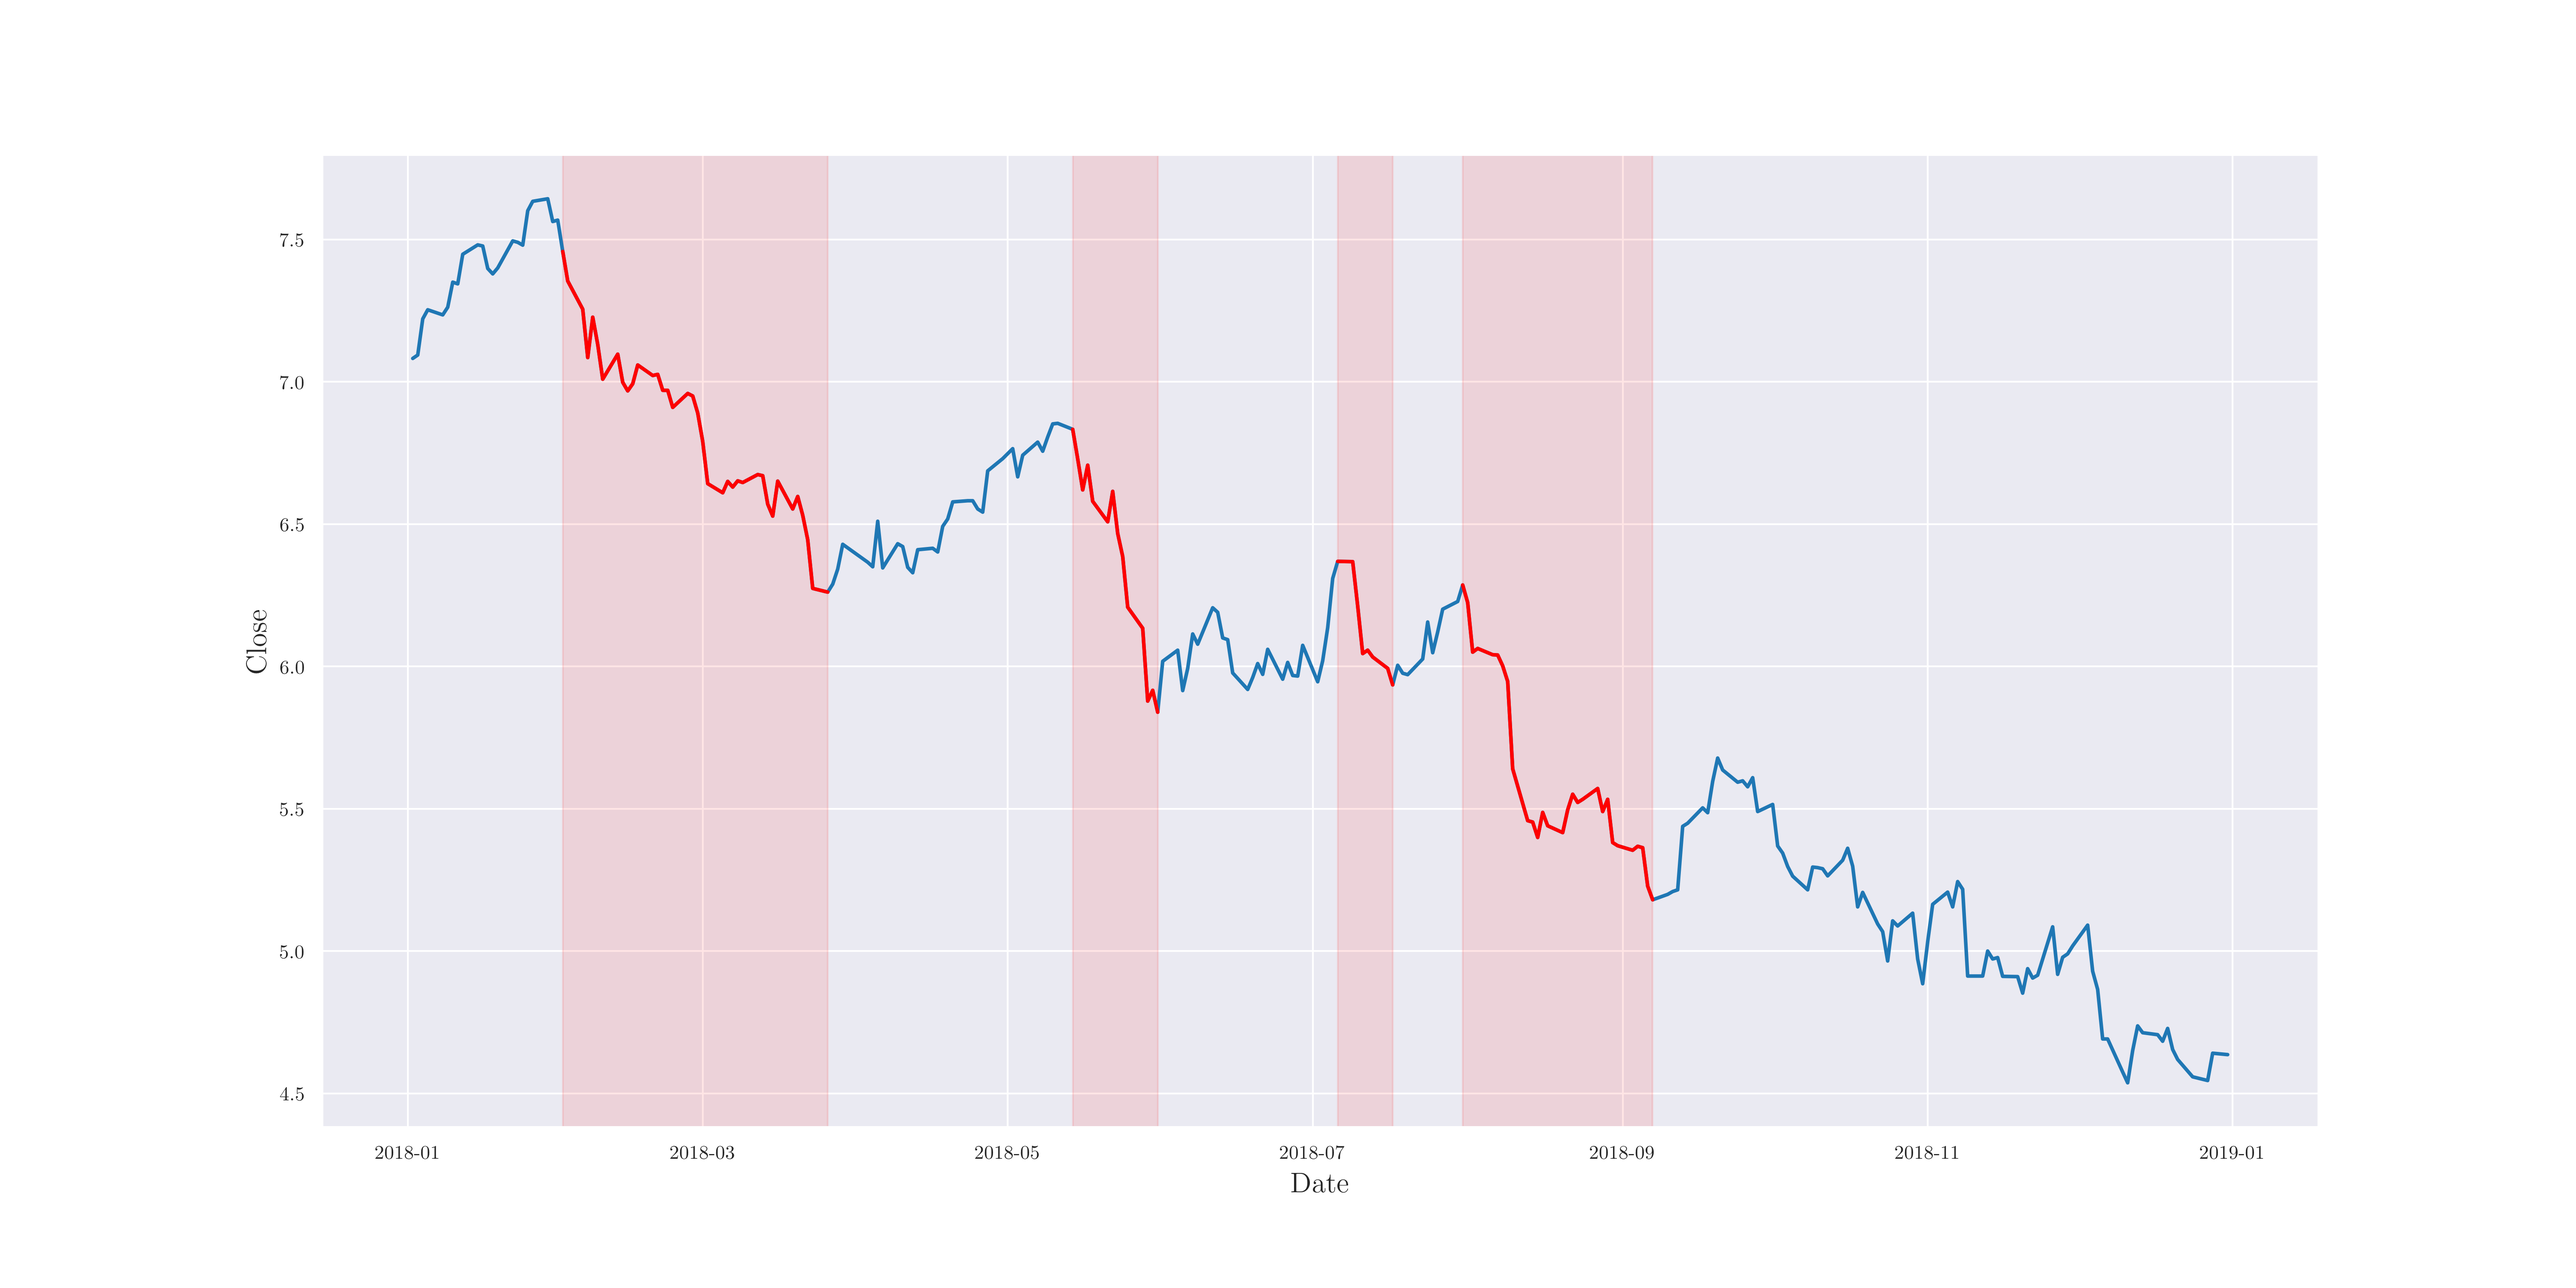
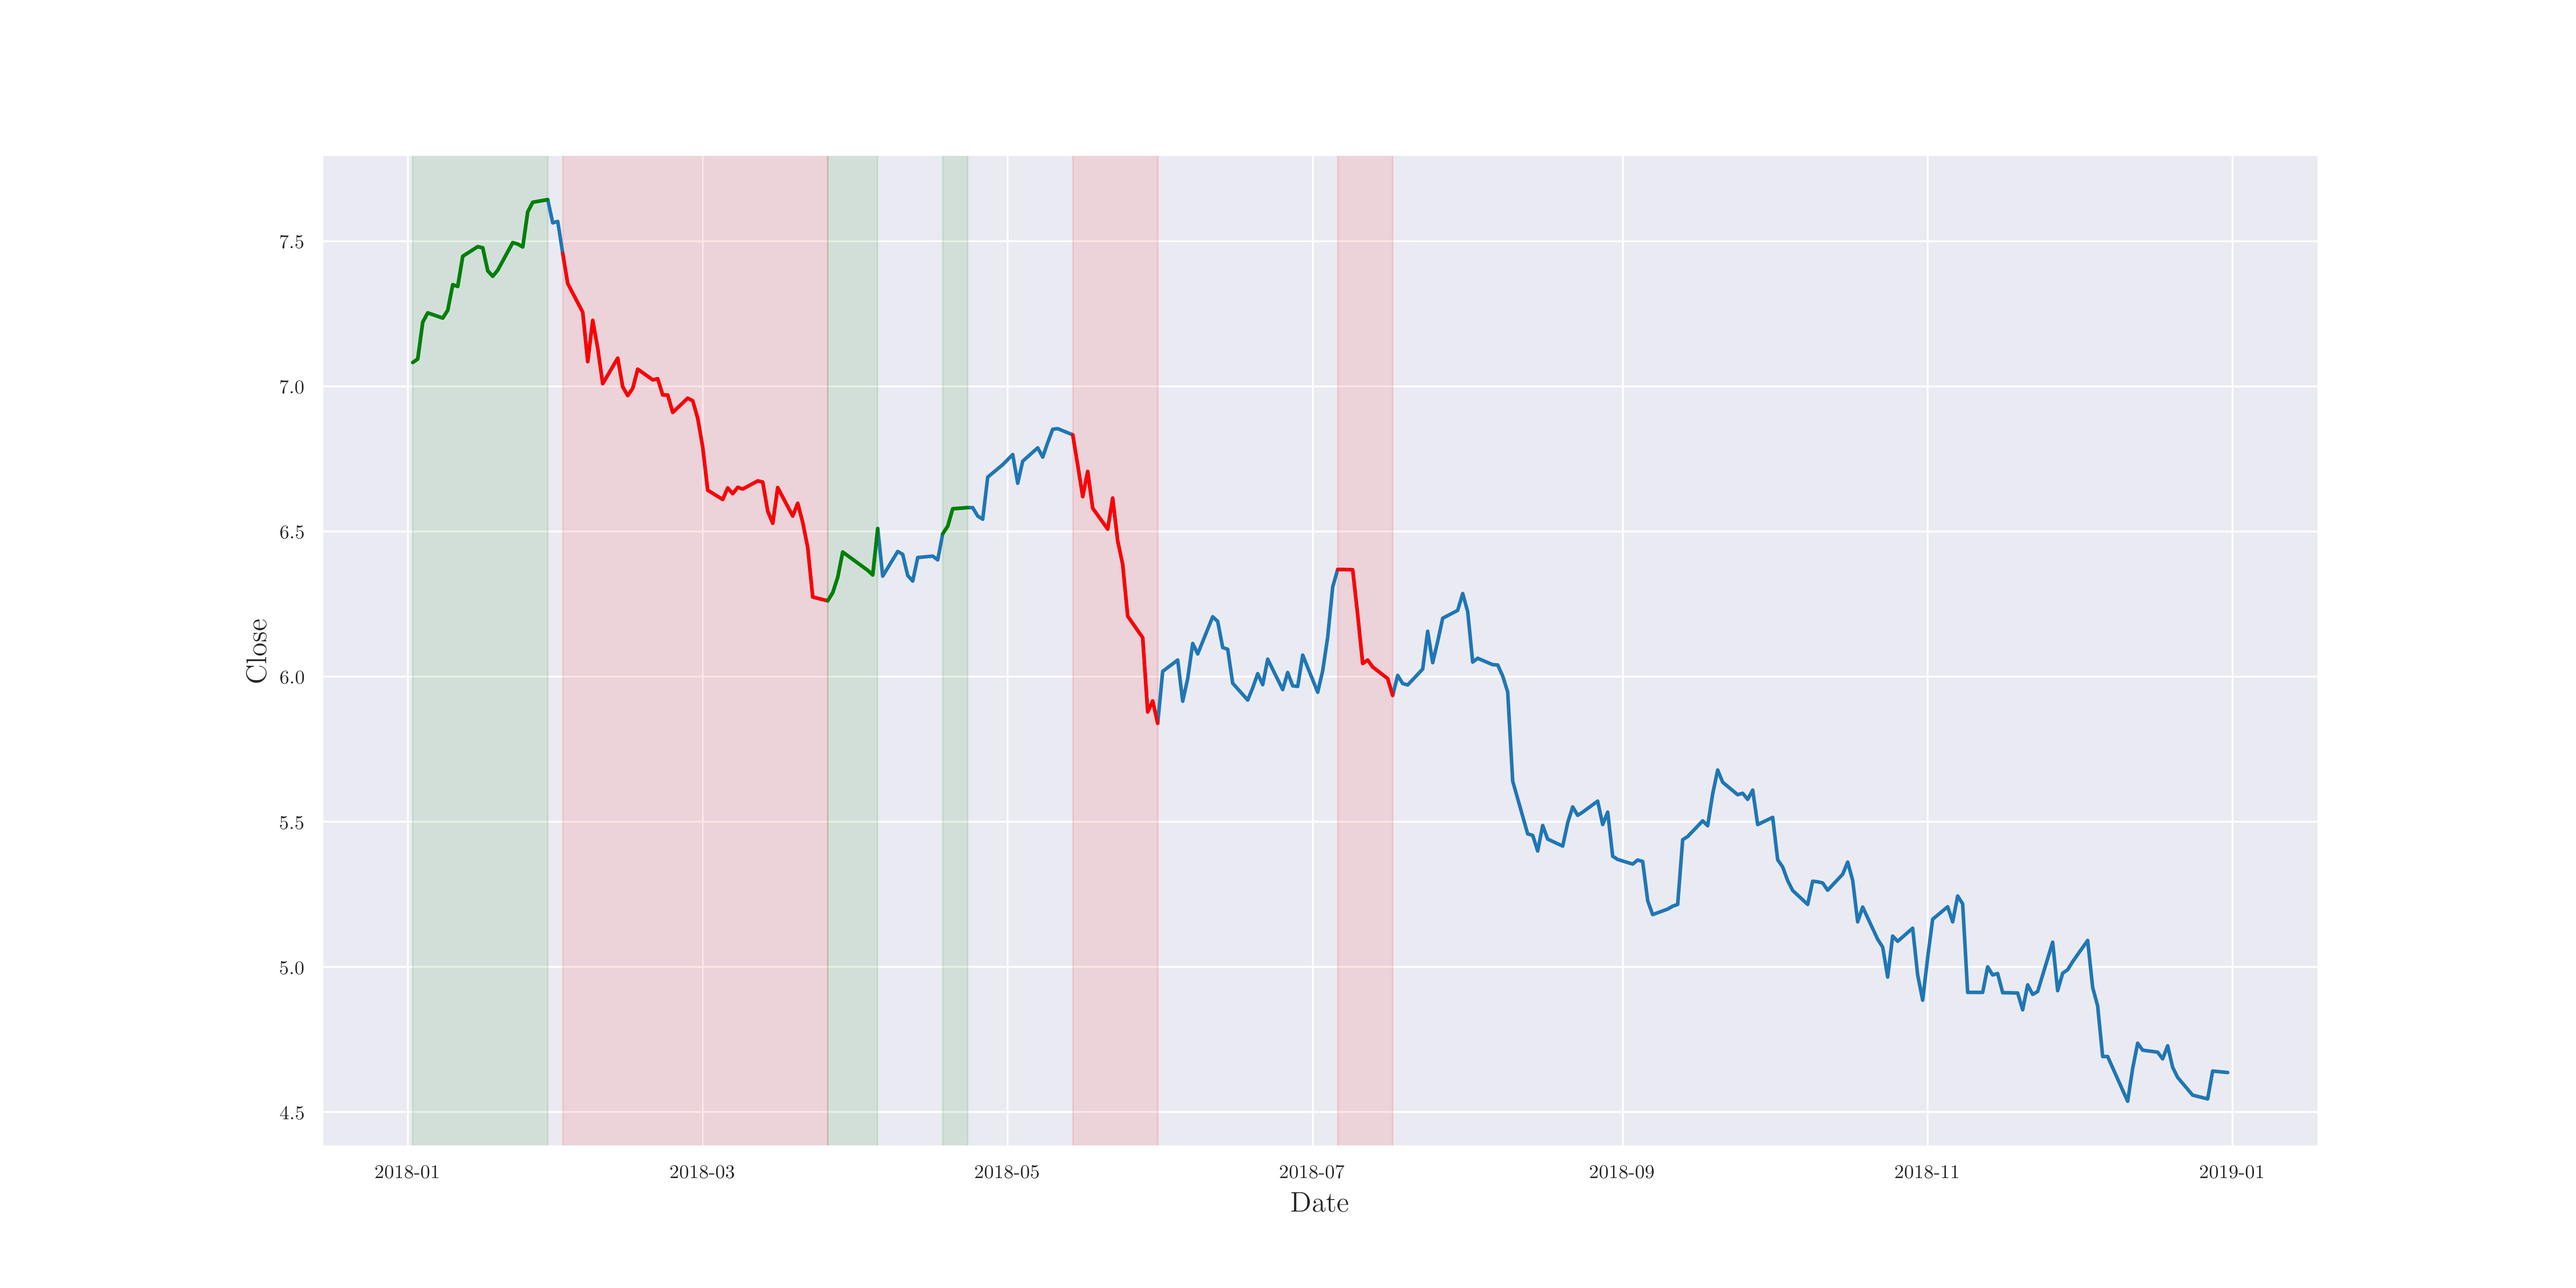
added up trends & 0.2 minor fix/setup
- add both up and down trends as on 0.1 version just down trends were considered
- sample code updated (usage)
- created sample trendet gist (https://gist.github.com/alvarob96/98f94dcfec59f78a16ad2edbf464ce75)
- minor changes on docs

diff --git a/trendet/__init__.py b/trendet/__init__.py
@@ -4,9 +4,11 @@
 # See LICENSE for details.
 
 __author__ = 'Alvaro Bartolome @ alvarob96 on GitHub'
-__version__ = '0.1'
+__version__ = '0.2'
 
 from investpy import get_historical_data
+
+import numpy as np
 
 from statistics import mean
 import datetime
@@ -91,45 +93,62 @@ def identify_trends(equity, from_date, to_date, window_size=5, trend_limit=3, la
     except:
         raise RuntimeError('investpy function call failed!')
 
-    limit = None
-    values = list()
+    objs = list()
 
-    trends = list()
+    up_trend = {
+        'name': 'Up Trend',
+        'element': np.negative(df['Close'])
+    }
 
-    for index, value in enumerate(df['Close'], 0):
-        if limit and limit > value:
-            values.append(value)
-            limit = mean(values)
-        elif limit and limit < value:
-            if len(values) > window_size:
-                min_value = min(values)
+    objs.append(up_trend)
 
-                for counter, item in enumerate(values, 0):
-                    if item == min_value:
+    down_trend = {
+        'name': 'Down Trend',
+        'element': df['Close']
+    }
+
+    objs.append(down_trend)
+
+    for obj in objs:
+        limit = None
+        values = list()
+
+        trends = list()
+
+        for index, value in enumerate(obj['element'], 0):
+            if limit and limit > value:
+                values.append(value)
+                limit = mean(values)
+            elif limit and limit < value:
+                if len(values) > window_size:
+                    min_value = min(values)
+
+                    for counter, item in enumerate(values, 0):
+                        if item == min_value:
+                            break
+
+                    to_trend = from_trend + counter
+
+                    trend = {
+                        'from': df.index.tolist()[from_trend],
+                        'to': df.index.tolist()[to_trend],
+                    }
+
+                    trends.append(trend)
+
+                    if len(trends) >= trend_limit:
                         break
 
-                to_trend = from_trend + counter
+                limit = None
+                values = list()
+            else:
+                from_trend = index
 
-                obj = {
-                    'from': df.index.tolist()[from_trend],
-                    'to': df.index.tolist()[to_trend],
-                }
+                values.append(value)
+                limit = mean(values)
 
-                trends.append(obj)
-
-                if len(trends) >= trend_limit:
-                    break
-
-            limit = None
-            values = list()
-        else:
-            from_trend = index
-
-            values.append(value)
-            limit = mean(values)
-
-    for trend, label in zip(trends, labels):
-        for index, row in df[trend['from']:trend['to']].iterrows():
-            df.loc[index, 'Trend'] = label
+        for trend, label in zip(trends, labels):
+            for index, row in df[trend['from']:trend['to']].iterrows():
+                df.loc[index, obj['name']] = label
 
     return df

diff --git a/setup.py b/setup.py
@@ -11,10 +11,10 @@ def readme():
 
 setup(
     name='trendet',
-    version='0.1',
+    version='0.2',
     packages=find_packages(),
     url='https://github.com/alvarob96/trendet',
-    download_url='https://github.com/alvarob96/trendet/archive/0.1.tar.gz',
+    download_url='https://github.com/alvarob96/trendet/archive/0.2.tar.gz',
     license='MIT License',
     author='Alvaro Bartolome',
     author_email='alvarob96@usal.es',

diff --git a/docs/conf.py b/docs/conf.py
@@ -22,7 +22,7 @@ copyright = '2019, Alvaro Bartolome del Canto'
 author = 'Alvaro Bartolome del Canto'
 
 # The full version, including alpha/beta/rc tags
-release = '0.1'
+release = '0.2'
 
 
 # -- General configuration ---------------------------------------------------

diff --git a/README.md b/README.md
@@ -18,7 +18,7 @@
 **trendet** is a Python package to detect trends on the market so to analyze its behaviour. So on, this package
 has been created to support [investpy](https://github.com/alvarob96/investpy) features when it comes to data retrieval
 from different financial products such as stocks/equities, funds or ETFs; and it is intended to be combined with it, 
-but also with every `pandas.DataFrame`, formatted as OHLC. 
+but also with every `pandas.DataFrame`, formatted as OHLC.
 
 ## Installation
 
@@ -28,17 +28,27 @@ In order to get this package working you will need to install it using pip by ty
 
 Or just install the current release or a specific release version such as:
 
-``$ python -m pip install trendet==0.1``
+``$ python -m pip install trendet==0.2``
 
 ## Usage
+
+As **trendet** is intended to be combined with **investpy**, the main functionality is to
+detect trends on stock time series data so to analyse the market and which behaviour does it have
+in certain date ranges.
+
+In the example presented below, the ``identify_trends`` function will be used to detect 3 bearish/bullish trends
+with a time window above 5 days, which implies that every bearish (decreasing) trend with a longer
+duration than 5 days will be identified and so on added to a ``pandas.DataFrame`` which already contains
+OHLC values, in new columns called **Up Trend** and **Down Trend** which will be labeled as specified, with letters 
+from A to Z by default.
 
 ````python
 import trendet
 
 import matplotlib.pyplot as plt
 import seaborn as sns
-sns.set(style='darkgrid')
 
+sns.set(style='darkgrid')
 
 df = trendet.identify_trends(equity='bbva',
                              from_date='01/01/2018',
@@ -54,10 +64,27 @@ with plt.style.context('paper'):
 
     ax = sns.lineplot(x=df['Date'], y=df['Close'])
 
+    values = list()
+
+    value = {
+        'trend': 'Up Trend',
+        'color': 'green',
+    }
+
+    values.append(value)
+
+    value = {
+        'trend': 'Down Trend',
+        'color': 'red',
+    }
+
+    values.append(value)
+
     for label in ['A', 'B', 'C']:
-        sns.lineplot(x=df[df['Trend'] == label]['Date'], y=df[df['Trend'] == label]['Close'], color='red')
-        ax.axvspan(df[df['Trend'] == label]['Date'].iloc[0], df[df['Trend'] == label]['Date'].iloc[-1], alpha=0.1, color='red')
-    
+        for value in values:
+            sns.lineplot(x=df[df[value['trend']] == label]['Date'], y=df[df[value['trend']] == label]['Close'], color=value['color'])
+            ax.axvspan(df[df[value['trend']] == label]['Date'].iloc[0], df[df[value['trend']] == label]['Date'].iloc[-1], alpha=0.2, color=value['color'])
+
     plt.show()
 ````
 

diff --git a/docs/usage.rst b/docs/usage.rst
@@ -5,10 +5,11 @@ As **trendet** is intended to be combined with **investpy**, the main functional
 detect trends on stock time series data so to analyse the market and which behaviour does it have
 in certain date ranges.
 
-In the example presented below, the ``identify_trends`` function will be used to detect 3 bearish trends
+In the example presented below, the ``identify_trends`` function will be used to detect 3 bearish/bullish trends
 with a time window above 5 days, which implies that every bearish (decreasing) trend with a longer
 duration than 5 days will be identified and so on added to a ``pandas.DataFrame`` which already contains
-OHLC values, in a new column called `Trend` which will be labeled.
+OHLC values, in new columns called `Up Trend` and `Down Trend` which will be labeled as specified, with letters from A
+to Z by default.
 
 .. code-block:: python
 
@@ -16,8 +17,8 @@ OHLC values, in a new column called `Trend` which will be labeled.
 
     import matplotlib.pyplot as plt
     import seaborn as sns
-    sns.set(style='darkgrid')
 
+    sns.set(style='darkgrid')
 
     df = trendet.identify_trends(equity='bbva',
                                  from_date='01/01/2018',
@@ -33,9 +34,26 @@ OHLC values, in a new column called `Trend` which will be labeled.
 
         ax = sns.lineplot(x=df['Date'], y=df['Close'])
 
+        values = list()
+
+        value = {
+            'trend': 'Up Trend',
+            'color': 'green',
+        }
+
+        values.append(value)
+
+        value = {
+            'trend': 'Down Trend',
+            'color': 'red',
+        }
+
+        values.append(value)
+
         for label in ['A', 'B', 'C']:
-            sns.lineplot(x=df[df['Trend'] == label]['Date'], y=df[df['Trend'] == label]['Close'], color='red')
-            ax.axvspan(df[df['Trend'] == label]['Date'].iloc[0], df[df['Trend'] == label]['Date'].iloc[-1], alpha=0.1, color='red')
+            for value in values:
+                sns.lineplot(x=df[df[value['trend']] == label]['Date'], y=df[df[value['trend']] == label]['Close'], color=value['color'])
+                ax.axvspan(df[df[value['trend']] == label]['Date'].iloc[0], df[df[value['trend']] == label]['Date'].iloc[-1], alpha=0.2, color=value['color'])
 
         plt.show()
 

diff --git a/docs/installation.rst b/docs/installation.rst
@@ -7,4 +7,4 @@ In order to get this package working you will need to install it using pip by ty
 
 Or just install the current release or a specific release version such as::
 
-    $ python -m pip install trendet==0.1
+    $ python -m pip install trendet==0.2
